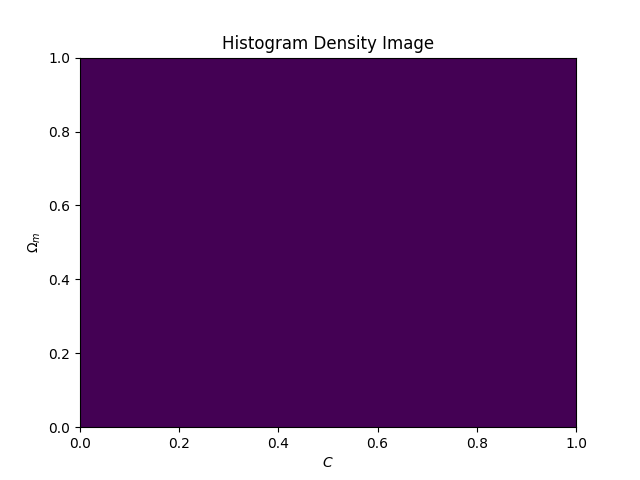
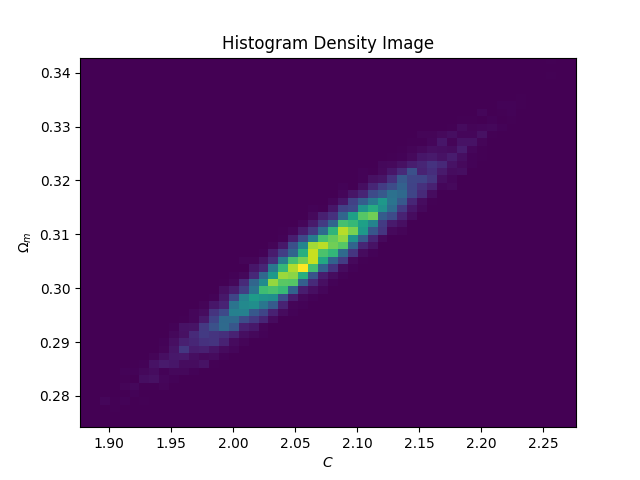
set iterations to be 5e5

diff --git a/MCMC.py b/MCMC.py
@@ -11,7 +11,7 @@ noise = npz_file['noise']
 np.random.seed(0)
 
 # Markov chain length
-n_chain = 100
+n_chain = int(5e5)
 
 # Starting point
 C_current = 5.0
